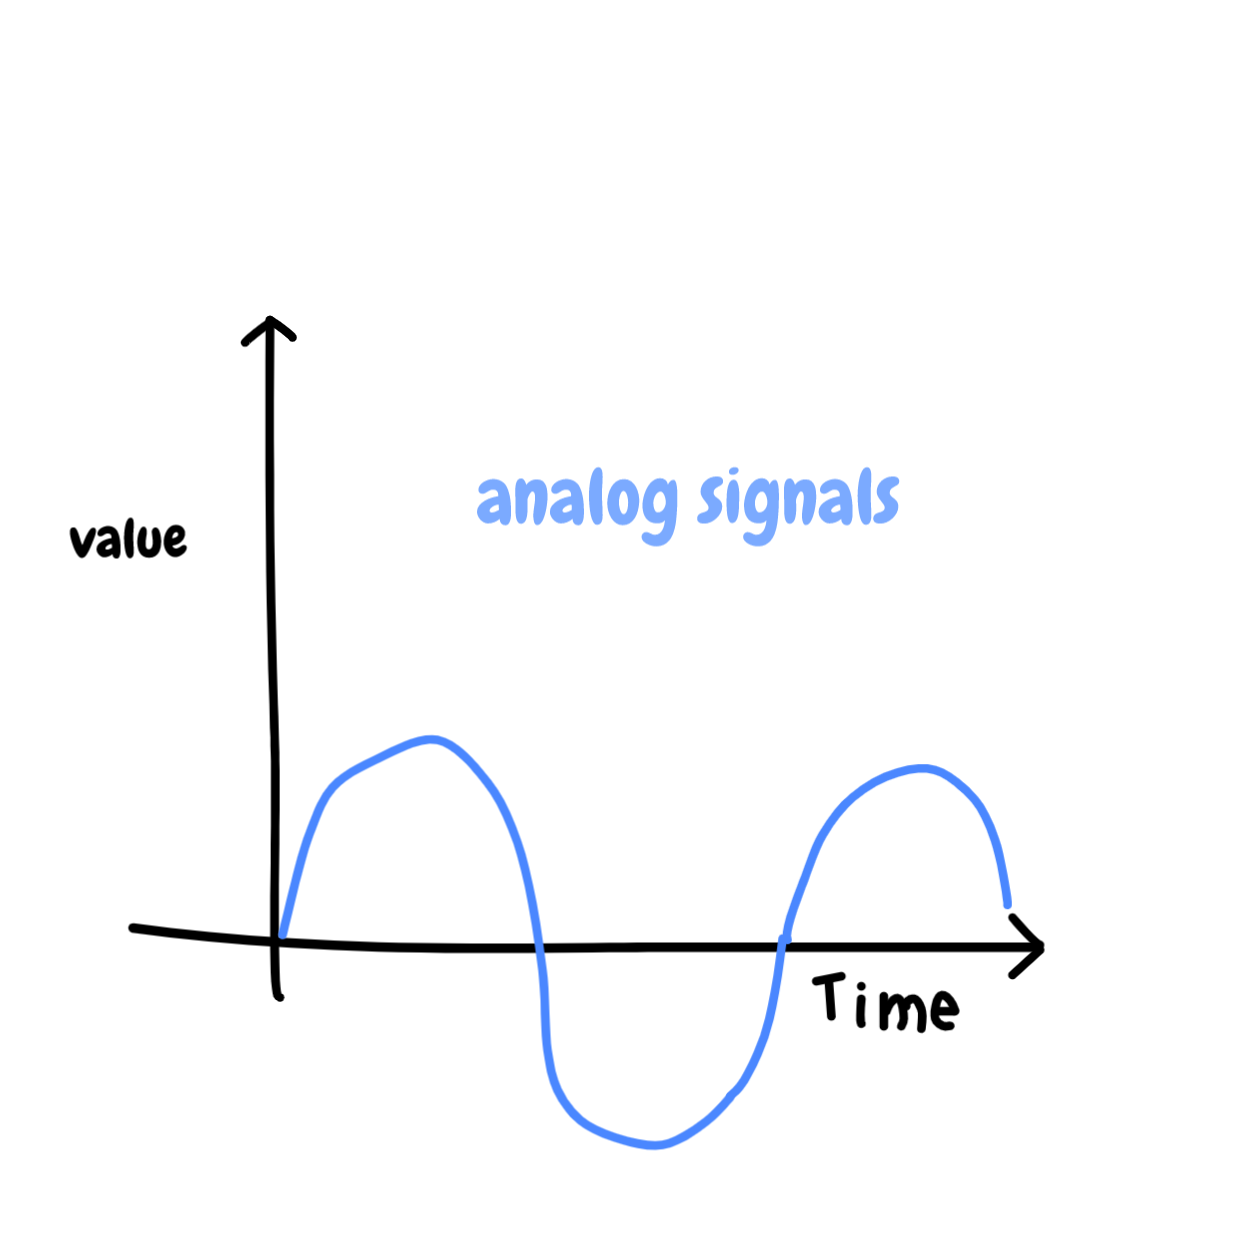
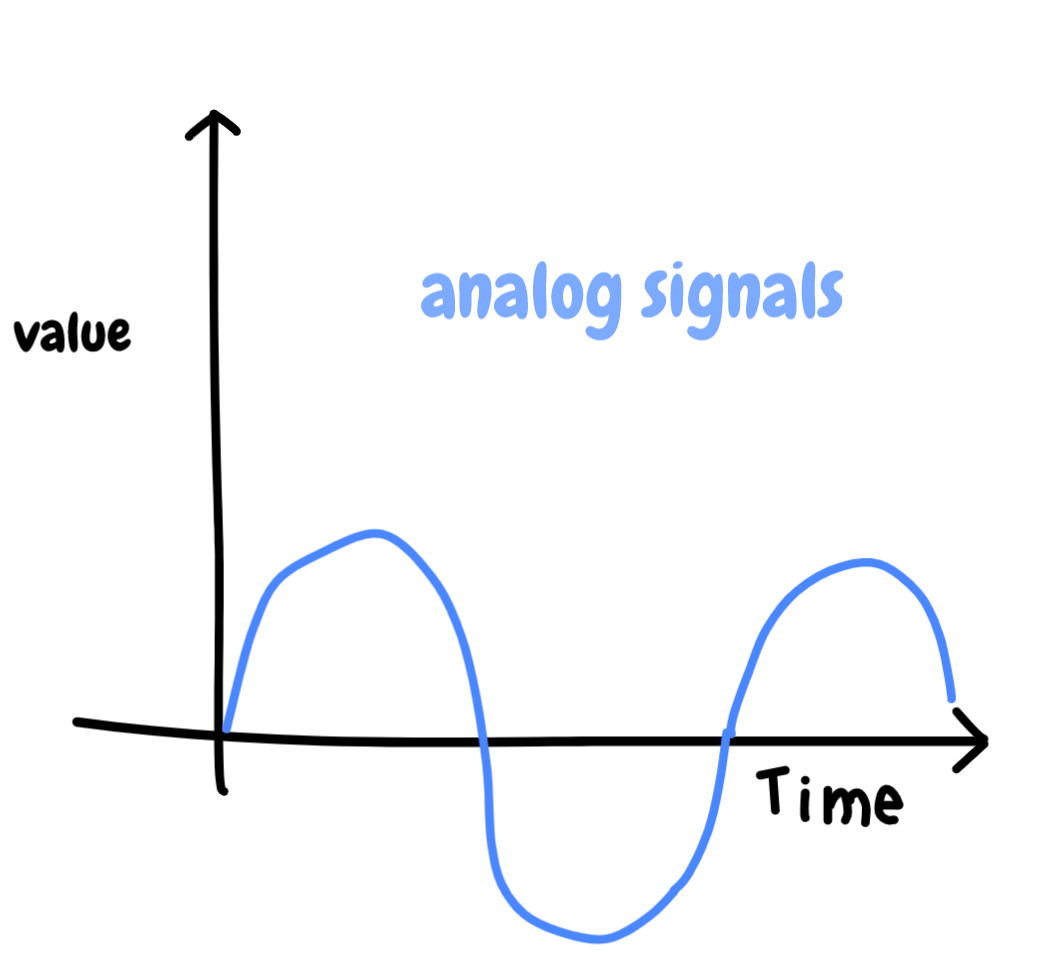
signal pic

diff --git a/network/osimodel_v2.html b/network/osimodel_v2.html
@@ -75,21 +75,28 @@
                         <ul>
                             <br>
                             <b id="digitalSignal">Digital signals: </b>
-                            <div class="DigitalSignalBlock">
-                                <div class="DigitalSignalBlock_word">
+                            <div class="SignalBlock">
+                                <div class="SignalBlock_word">
                                     As you have seen, digital signals are <strong> square waves.</strong> Besides, it uses binary code to transmit data, meaning that information is represented by <strong>“1”</strong> and <strong>“0”</strong>. Usually, “1” represents a <strong>high</strong> voltage and “0” represents a <strong>low</strong> voltage. Digital signals are generated by <strong>digital modulations</strong> which make them be time separated. It is also more accurate than analog signals. The reason for bringing this up is because it is often used in <strong>computing and digital electronics.</strong>
                                 </div>
-                                <div class="DigitalSignalBlock_pic">
+                                <div class="SignalBlock_pic">
                                     <img src="http://loophole.studio/images/osi_model/physical_layer/digital_signal.png" alt="" id="digital_signal_pic">
                                 </div>
                             </div>
                         </ul>
                         <ul>
                             <b id="analogSignal">Analog signals: </b>
-                            <br><br>Different from digital signals, analog signals are <strong>sine waves</strong>, which are continuous signals. It is often used in <strong>audio and video transmission.</strong>
-                            Examples of it would be something like signals from <strong>temperature sensors and light sensors</strong>. However, there is a downside of it, which is that it can be easily deteriorated by <strong>noise</strong>.
+                            <div class="SignalBlock">
+                                <div class="SignalBlock_word">
+                                    Different from digital signals, analog signals are <strong>sine waves</strong>, which are continuous signals. It is often used in <strong>audio and video transmission.</strong>Examples of it would be something like signals from <strong>temperature sensors and light sensors</strong>. However, there is a downside of it, which is that it can be easily deteriorated by <strong>noise</strong>.
+                                </div>
+                                <div class="SignalBlock_pic">
+                                    <img src="http://loophole.studio/images/osi_model/physical_layer/analog_signal.png" alt="" id="analog_signal_pic">                                            
+                                </div>
+                            </div>
+                            
                         </ul>
-<!--                        <img src="http://loophole.studio/images/osi_model/physical_layer/analog_signal.png" alt="">                                            -->
+
                     </ul>    
                 </ul>
                 <ul>

diff --git a/network/osimodel_v2.css b/network/osimodel_v2.css
@@ -16,6 +16,10 @@ a{
     color: #2B7EB7;
 }
 
+b{
+    font-size: 20px;
+}
+
 .hero-image {
   background-image: linear-gradient(rgba(0, 0, 0, 0.5), rgba(0, 0, 0, 0.5)), url("http://loophole.studio/images/osi-model.jpg");
 }
@@ -49,13 +53,13 @@ a{
     padding: 5%;
 }
 
-.DigitalSignalBlock_word{
+.SignalBlock_word{
     vertical-align: top;
     display: inline-block;
     width: 70%;
 }
 
-.DigitalSignalBlock_pic{
+.SignalBlock_pic{
     vertical-align: top;
     display: inline-block;
     width: 20%;
@@ -73,6 +77,11 @@ a{
 
 /*pic*/
 #digital_signal_pic{
+    width: 200px;
+    height: 200px;
+}
+
+#analog_signal_pic{
     width: 200px;
     height: 200px;
 }
